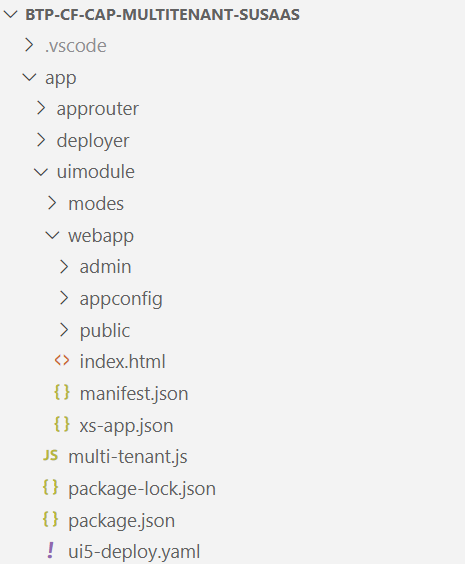
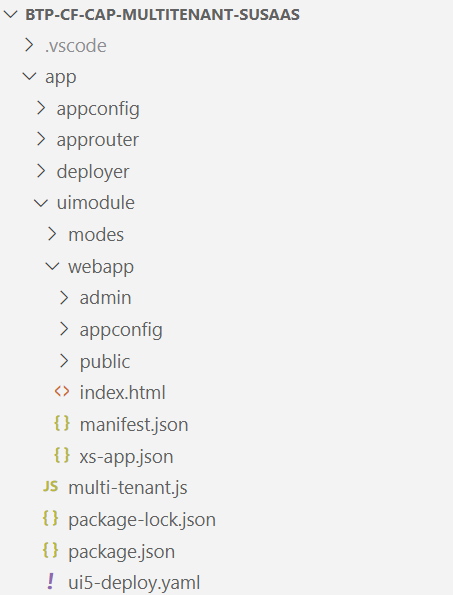
Documentation updates

Changed region(s): [[0.0309, 0.1206, 0.4636, 1.0], [0.0, 0.0, 0.6799, 0.0904]]

diff --git a/docu/2-basic/1-understand-repo-structure/README.MD b/docu/2-basic/1-understand-repo-structure/README.MD
@@ -3,7 +3,7 @@
 This part of the mission will briefly outline the structure of the **Basic Scope** branch so you're comfortable navigating through the provided repository. The following screenshots and explanations will give you an idea of the respective branch. 
 
 1. [Overview](#1-overview)
-2. [Application Router](#2-application-router)
+2. [Application](#2-application)
 3. [API Broker](#3-api-broker)
 4. [Deployment Configurations](#4-deployment-configurations)
 5. [Tenant Database Container](#5-tenant-database-container)
@@ -16,21 +16,23 @@ This part of the mission will briefly outline the structure of the **Basic Scope
 
 Also, check out the **Explore the application** part of this mission which describes various components and their tasks in greater detail ([click here](../7-explore-the-components/README.MD)).
 
+
 ## 1. Overview
 
 The repository consists of several directories containing the API (service) broker, the API service, and the application layers like User Interface, the business application service layer, and the data models deployed in a tenant-specific and shared database container.
 
 | | |
 |:--: | :--- |
-| [<img src="./images/Repo_Structure_All.png" width="350"/>](./images/Repo_Structure_All.png) | <br> <br> **app -** Approuter and Fiori Elements <br> **broker -** Service broker configuration <br> **configs -** Deployment configurations (e.g. XSUAA) <br> **db -** Tenant data model <br> **db-com -** Shared data model <br> **http -** Http files for API testing <br> **srv -** Business application service <br> **srv-api -** API service <br> **test -** Unit tests and sample data <br> **mta.yaml -** Descriptor for .mtar deployment <br> **package.json -** CDS related configs (e.g. mtxs, build settings) |
+| [<img src="./images/Repo_Structure_All.png" width="350"/>](./images/Repo_Structure_All.png) | <br> <br> **app -** Approuter and SAP Fiori Elements <br> **broker -** Service broker configuration <br> **configs -** Deployment configurations (e.g. XSUAA) <br> **db -** Tenant data model <br> **db-com -** Shared data model <br> **http -** Http files for API testing <br> **srv -** Business application service <br> **srv-api -** API service <br> **test -** Unit tests and sample data <br> **mta.yaml -** Descriptor for .mtar deployment <br> **package.json -** CDS related configs (e.g. mtxs, build settings) |
 
-## 2. Application Router
+
+## 2. Application
 
 Besides the **Approuter** instance, the **app** directory contains all SAP Fiori Elements user interface definitions which are dynamically generated based on the business application service annotations.
 
 | | |
 |:--: | :--- |
-| [<img src="./images/Repo_Structure_App.png" width="350"/>](./images/Repo_Structure_App.png) |  **approuter -** Approuter default instance <br> **uimodule -** UI development content <p style='padding-left:1em'> **modes -** Local development configs <br> **webapp -** Fiori Elements app definitions <br><p style='padding-left:2em'>**admin -** Admin apps <br>**appconfig -** Fiori Launchpad config <br>**public -** User apps </p></p> **multi-tenant.js -** Required for local development |
+| [<img src="./images/Repo_Structure_App.png" width="350"/>](./images/Repo_Structure_App.png) |  **appconfig -** Fiori Launchpad sandbox config for local testing <br> **approuter -** Approuter default instance <br>  **deployer -** Used during build/deployment <br> **uimodule -** UI development content <p style='padding-left:1em'> **modes -** Local development configs <br> **webapp -** SAP Fiori Elements app definitions <br><p style='padding-left:2em'>**admin -** Admin apps <br>**appconfig -** SAP Fiori Launchpad sandbox config <br>**public -** User apps </p></p> **multi-tenant.js -** Required for local development |
 
 
 ## 3. API Broker
@@ -55,9 +57,11 @@ In the **configs** directory, deployment-related configuration files are stored 
 
 The **db** directory contains the definition of the tenant-specific data model, which is deployed to a new isolated database container for each and every SaaS tenant upon subscription. 
 
+> **Important** - Based on the CDS profile used in cds watch or cds build, the tenant database model includes or excludes tables for Currencies, Languages, and Countries. For local testing targeting sqlite, those master data tables and sample values are part of the individual tenant database model. For a production build targeting SAP HANA Cloud, these tables are replaced by views and synonyms pointing to the shared database container. Also check the package.json profiles in "db-ext" to get a better understanding.
+
 | | |
 |:--: | :--- |
-| [<img src="./images/Repo_Structure_Tenant_Db.png" width="350"/>](./images/Repo_Structure_Tenant_Db.png) | <br><br> **cfg -** Configuration files for shared database container access <br> **src -** Native SAP HANA database objects <br><p style='padding-left:1em'> **functions -** Functions <br> **procedures -** Stored Procedures <br> **roles -** Schema roles <br> **synonyms -** Synonyms </p> **data-models.cds -** Tenant data model definition <br> **data-types.cds -** Tenant data model types <br>|
+| [<img src="./images/Repo_Structure_Tenant_Db.png" width="350"/>](./images/Repo_Structure_Tenant_Db.png) | <br><br> **cfg -** Configuration files for shared database container access <br> **hana -** Tenant data model extension for production build <br> **sqlite -** Tenant data model extension for local testing <br> **src -** Native SAP HANA database objects <br><p style='padding-left:1em'> **functions -** Functions <br> **procedures -** Stored Procedures <br> **roles -** Schema roles <br> **synonyms -** Synonyms </p> **data-models.cds -** Tenant data model <br> **data-types.cds -** Tenant data model types <br>|
 
 
 ## 6. Shared Database Container

diff --git a/docu/2-basic/3-build-deploy-saas-application/README.MD b/docu/2-basic/3-build-deploy-saas-application/README.MD
@@ -55,7 +55,7 @@ build-parameters:
         #- npx -p @sap/cds-dk cds build --profile production
 
         ### Deployment w/ csv sample files ###
-        - npx -p @sap/cds-dk cds build --profile production,data
+        - npx -p @sap/cds-dk cds build --profile production,csv
 ```
 
 We highly recommend deploying the sample application **without** sample files as this might lead to confusion for your consumers. Instead, please use the SaaS API features if you want to push initial data for **Products** or **Sales Orders** to your consumer tenants. You can find the related documentation in the **Basic Scope** ([click here](../5-push-data-to-saas-api/README.MD)).

diff --git a/docu/2-basic/5-push-data-to-saas-api/README.MD b/docu/2-basic/5-push-data-to-saas-api/README.MD
@@ -36,6 +36,8 @@ To connect to the SaaS API as a consumer, make sure you followed all steps descr
 
 1.3. After updating the relevant parameters based on your tenant-specific service binding credentials, you can request the required OAuth token for accessing the SaaS API. Therefore, execute the following request which will return a Bearer token that can be used for the upcoming API calls.
 
+> **Important** - If you're facing an **Unauthorized** error, please try to URL-encode (various web-tools or npm packages available to do so) your Client ID and Secret and try to fetch a token again!
+
 ```http
 # @name getXsuaaToken
 
